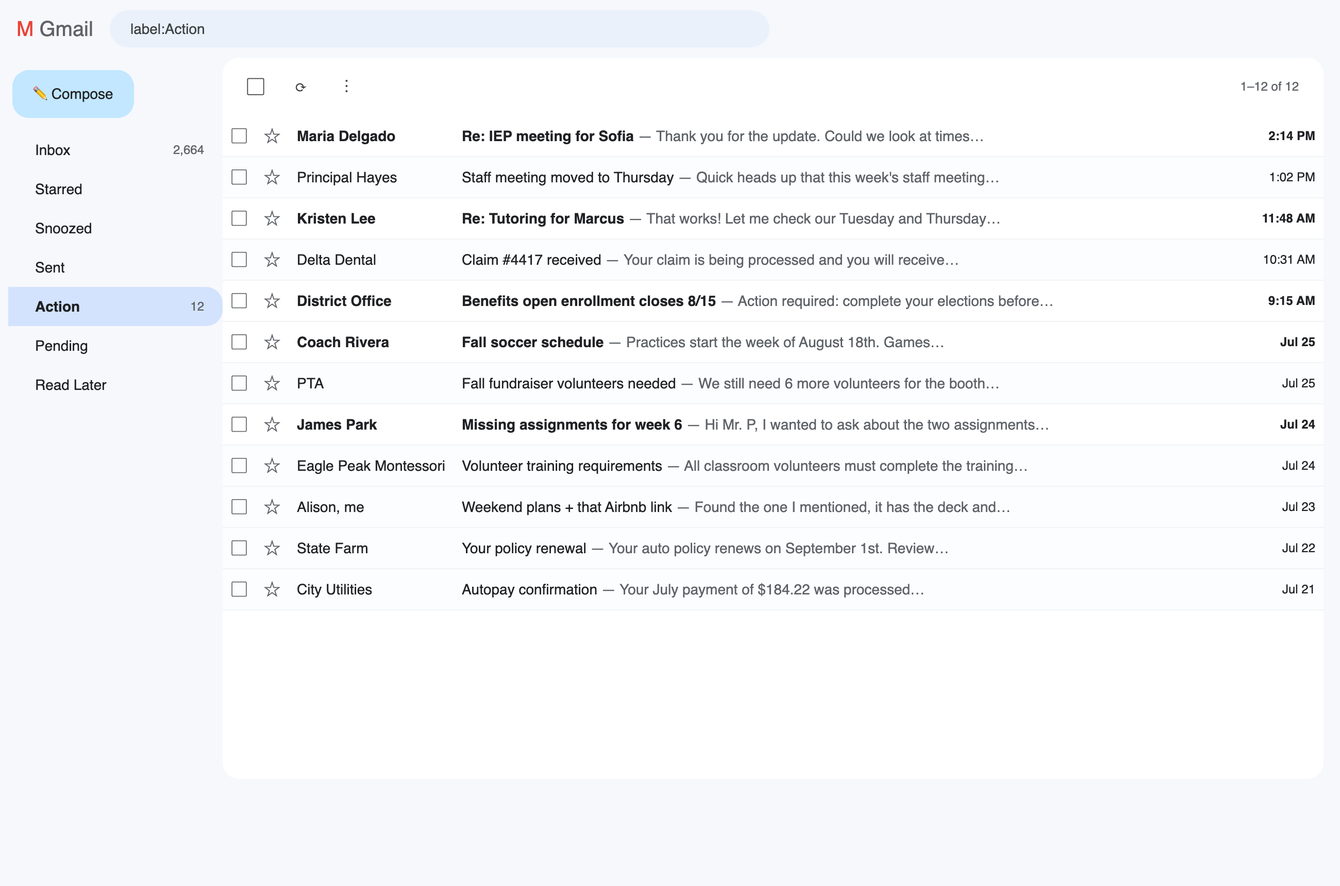
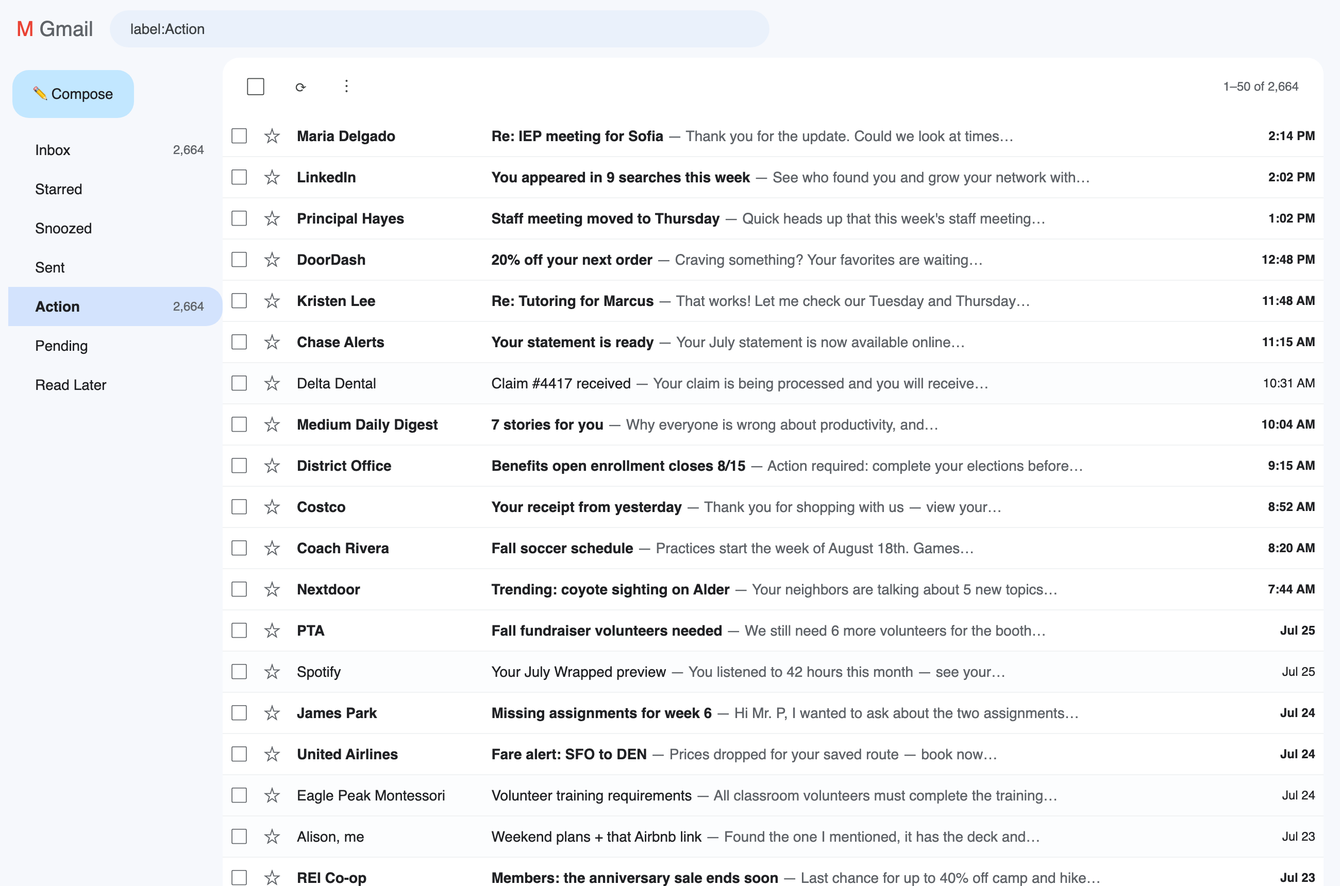
site: one showcase instead of three sections; before-shot now overwhelming
- Before/after flip, the context-note highlight, and the persona gallery
  merged into a single 'What Shelf looks like' stage: 7 tabbed views
  (Before | After | Busy parents | GTD | Eisenhower | Sales | the
  next-steps note), grouped by thin dividers, stage click steps through
  the tour. Two full sections of scrolling removed; TOC down to 7
- before.png repacked to feel like drowning: 22 rows, mostly unread,
  the IEP email buried between LinkedIn and DoorDash, 1-50 of 2,664

diff --git a/docs/index.html b/docs/index.html
@@ -79,7 +79,7 @@
                   padding: 9px 18px; border-radius: 20px; transition: all .18s ease; }
   .pills button.on { background: var(--accent); border-color: var(--accent); color: #fff; }
   @media (prefers-color-scheme: dark) { .pills button.on { color: #202124; } }
-  #setupStage { cursor: default; }
+  .pdiv { width: 1px; align-self: stretch; background: var(--line); margin: 4px 4px; }
   .ba-head { display: flex; align-items: center; justify-content: space-between;
              gap: 16px; flex-wrap: wrap; margin-bottom: 20px; }
   .ba-toggle { display: inline-flex; background: var(--card); border: 1px solid var(--line);
@@ -171,9 +171,7 @@
 <body>
 
 <nav id="toc" aria-label="Sections">
-  <a href="#demo"><span class="lbl">Before / after</span><span class="dot"></span></a>
-  <a href="#context"><span class="lbl">Notes with context</span><span class="dot"></span></a>
-  <a href="#setups"><span class="lbl">Real setups</span><span class="dot"></span></a>
+  <a href="#demo"><span class="lbl">See it</span><span class="dot"></span></a>
   <a href="#video"><span class="lbl">60-second demo</span><span class="dot"></span></a>
   <a href="#features"><span class="lbl">What it does</span><span class="dot"></span></a>
   <a href="#different"><span class="lbl">Why Shelf</span><span class="dot"></span></a>
@@ -200,45 +198,29 @@
 </header>
 
 <section class="wrap" id="demo">
-  <div class="ba-head">
-    <h2 style="margin:0">Before and after</h2>
-    <div class="ba-toggle" role="group" aria-label="Before and after comparison">
-      <button id="btnBefore" class="on" aria-pressed="true">Before</button>
-      <button id="btnAfter" aria-pressed="false">After Shelf</button>
-    </div>
-  </div>
-  <div class="ba-stage" id="baStage" title="Click to flip">
-    <img id="imgBefore" class="on" src="before.png" alt="A default Gmail label: twelve unrelated threads in date order">
-    <img id="imgAfter" src="after.png" alt="The same label organized into Shelf sections with notes">
-  </div>
-  <p class="ba-cap" id="baCap"><b>Before:</b> everything in the order it arrived — parents, insurance, deadlines, and noise interleaved. <span class="ba-hint">(Click the image to flip.)</span></p>
-</section>
-
-<section class="wrap" id="context">
-  <h2>Open any thread knowing exactly where you left off</h2>
-  <p class="lede">Notes ride on the conversation itself. Write the steps once — when you come back, they're waiting at the top, checkboxes and all. No more re-reading a whole thread to remember what "reply to this" actually involves.</p>
-  <img class="framed" src="note-context.png" loading="lazy" alt="An open Gmail conversation with a Shelf sticky note under the subject: 'Before replying', with a checklist — check our actual numbers (done), ask Laura about line 4, loop in finance">
-  <p class="ba-cap"><b>The context tax, cancelled:</b> tick steps off right on the note — it saves instantly, and it's there on the thread everywhere the thread appears.</p>
-</section>
-
-<section class="wrap" id="setups">
-  <h2>Shelves for the way you already work</h2>
-  <p class="lede">Same tool, different systems. Each of these is nothing but shelves, notes, and colors — about thirty seconds of setup.</p>
-  <div class="pills" id="setupPills" role="group" aria-label="Example setups">
-    <button data-k="parents" class="on" aria-pressed="true">Busy parents</button>
+  <h2>What Shelf looks like</h2>
+  <p class="lede">One real label, before and after — then flip through setups people actually run, and the note that keeps your context on every thread. Click the image to step through.</p>
+  <div class="pills" id="viewPills" role="group" aria-label="Views">
+    <button data-k="before" class="on" aria-pressed="true">Before</button>
+    <button data-k="after" aria-pressed="false">After Shelf</button>
+    <span class="pdiv" aria-hidden="true"></span>
+    <button data-k="parents" aria-pressed="false">Busy parents</button>
     <button data-k="gtd" aria-pressed="false">GTD</button>
-    <button data-k="matrix" aria-pressed="false">Eisenhower matrix</button>
-    <button data-k="edu" aria-pressed="false">Educators &amp; parents</button>
-    <button data-k="sales" aria-pressed="false">Sales pipeline</button>
+    <button data-k="matrix" aria-pressed="false">Eisenhower</button>
+    <button data-k="sales" aria-pressed="false">Sales</button>
+    <span class="pdiv" aria-hidden="true"></span>
+    <button data-k="note" aria-pressed="false">Your next steps, on the thread</button>
   </div>
-  <div class="ba-stage" id="setupStage">
-    <img class="on" data-k="parents" src="setup-parents.png" alt="A busy parent's Family label: Needs a reply, This week, and Sign-ups &amp; forms shelves with notes about forms and carpools">
-    <img data-k="gtd" src="setup-gtd.png" loading="lazy" alt="A GTD setup: Next actions, Waiting for, and Someday/maybe shelves in an Action label">
+  <div class="ba-stage" id="viewStage" title="Click to step through">
+    <img class="on" data-k="before" src="before.png" alt="A default Gmail label: twelve unrelated threads in date order">
+    <img data-k="after" src="after.png" alt="The same label fully organized: Waiting on others, This week with Parents &amp; students and School admin sub-shelves, Family, To read">
+    <img data-k="parents" src="setup-parents.png" loading="lazy" alt="A busy parent's Family label: Needs a reply, This week, and Sign-ups &amp; forms shelves">
+    <img data-k="gtd" src="setup-gtd.png" loading="lazy" alt="A GTD setup: Next actions, Waiting for, and Someday/maybe shelves">
     <img data-k="matrix" src="setup-matrix.png" loading="lazy" alt="An Eisenhower matrix: Urgent &amp; important, Schedule, Delegate, and Someday shelves in the inbox">
-    <img data-k="edu" src="after.png" loading="lazy" alt="An educator's label: Waiting on others, This week with a Parents &amp; students sub-shelf, To read">
-    <img data-k="sales" src="setup-sales.png" loading="lazy" alt="A sales pipeline: Closing this week, In conversation, and New leads shelves in a Clients label">
+    <img data-k="sales" src="setup-sales.png" loading="lazy" alt="A sales pipeline: Closing this week, In conversation, and New leads shelves">
+    <img data-k="note" src="note-context.png" loading="lazy" alt="An open conversation with a Shelf checklist note under the subject: Before replying — check our actual numbers, ask Laura about line 4, loop in finance">
   </div>
-  <p class="ba-cap" id="setupCap"><b>Busy parents:</b> teachers, coaches, camps, and forms — "Needs a reply" on top, so nothing slips past Friday.</p>
+  <p class="ba-cap" id="viewCap"><b>Before:</b> everything in the order it arrived — parents, insurance, deadlines, and noise interleaved.</p>
 </section>
 
 <section class="wrap" id="video">
@@ -373,56 +355,41 @@
 
 <script>
 (function () {
-  // before/after flip
-  var imgs = { before: document.getElementById('imgBefore'), after: document.getElementById('imgAfter') };
-  var btns = { before: document.getElementById('btnBefore'), after: document.getElementById('btnAfter') };
-  var cap = document.getElementById('baCap');
-  var caps = {
-    before: '<b>Before:</b> everything in the order it arrived — parents, insurance, deadlines, and noise interleaved. <span class="ba-hint">(Click the image to flip.)</span>',
-    after: '<b>After:</b> what you’re waiting on, what’s due this week (with a sub-shelf for parents &amp; students), what’s just reading — and a note on each thread saying what happens next.'
-  };
-  var cur = 'before';
-  function show(which) {
-    cur = which;
-    for (var k in imgs) {
-      imgs[k].classList.toggle('on', k === which);
-      btns[k].classList.toggle('on', k === which);
-      btns[k].setAttribute('aria-pressed', k === which ? 'true' : 'false');
-    }
-    cap.innerHTML = caps[which];
-  }
-  btns.before.addEventListener('click', function () { show('before'); });
-  btns.after.addEventListener('click', function () { show('after'); });
-  document.getElementById('baStage').addEventListener('click', function () {
-    show(cur === 'before' ? 'after' : 'before');
-  });
-
-  // setup gallery pills
-  var setupCaps = {
+  // unified showcase
+  var viewOrder = ['before', 'after', 'parents', 'gtd', 'matrix', 'sales', 'note'];
+  var viewCaps = {
+    before: '<b>Before:</b> everything in the order it arrived — parents, insurance, deadlines, and noise interleaved.',
+    after: '<b>After:</b> the same twelve threads, fully shelved — waiting-ons with red notes, this week with two sub-shelves, family, reading. Nothing left over.',
     parents: '<b>Busy parents:</b> teachers, coaches, camps, and forms — “Needs a reply” on top, so nothing slips past Friday.',
     gtd: '<b>GTD:</b> Next actions, Waiting for, Someday/maybe — with @context notes riding on the threads themselves.',
     matrix: '<b>Eisenhower:</b> four quadrants in the inbox itself — urgency reads from shelf color before you’ve read a single subject line.',
-    edu: '<b>Educators &amp; parents:</b> IEP threads, tutoring, deadlines — with a sub-shelf keeping parent &amp; student conversations together.',
-    sales: '<b>Sales:</b> a pipeline inside the Clients label — closing deals on top, every thread carrying its next step as a note.'
+    sales: '<b>Sales:</b> a pipeline inside the Clients label — closing deals on top, every thread carrying its next step as a note.',
+    note: '<b>Your next steps, on the thread:</b> write them once; when you open the conversation they’re waiting at the top, checkboxes and all. No more re-reading to remember what “reply to this” involves.'
   };
-  var setupPills = document.querySelectorAll('#setupPills button');
-  var setupImgs = document.querySelectorAll('#setupStage img');
-  var setupCap = document.getElementById('setupCap');
-  Array.prototype.forEach.call(setupPills, function (b) {
-    b.addEventListener('click', function () {
-      var k = b.getAttribute('data-k');
-      Array.prototype.forEach.call(setupPills, function (x) {
-        x.classList.toggle('on', x === b);
-        x.setAttribute('aria-pressed', x === b ? 'true' : 'false');
-      });
-      Array.prototype.forEach.call(setupImgs, function (im) {
-        im.classList.toggle('on', im.getAttribute('data-k') === k);
-      });
-      setupCap.innerHTML = setupCaps[k];
+  var viewPills = document.querySelectorAll('#viewPills button');
+  var viewImgs = document.querySelectorAll('#viewStage img');
+  var viewCap = document.getElementById('viewCap');
+  var curView = 'before';
+  function showView(k) {
+    curView = k;
+    Array.prototype.forEach.call(viewPills, function (b) {
+      var on = b.getAttribute('data-k') === k;
+      b.classList.toggle('on', on);
+      b.setAttribute('aria-pressed', on ? 'true' : 'false');
     });
+    Array.prototype.forEach.call(viewImgs, function (im) {
+      im.classList.toggle('on', im.getAttribute('data-k') === k);
+    });
+    viewCap.innerHTML = viewCaps[k];
+  }
+  Array.prototype.forEach.call(viewPills, function (b) {
+    b.addEventListener('click', function () { showView(b.getAttribute('data-k')); });
+  });
+  document.getElementById('viewStage').addEventListener('click', function () {
+    showView(viewOrder[(viewOrder.indexOf(curView) + 1) % viewOrder.length]);
   });
 
-  // floating toc highlight
+    // floating toc highlight
   var links = Array.prototype.slice.call(document.querySelectorAll('#toc a'));
   var map = {};
   links.forEach(function (a) { map[a.getAttribute('href').slice(1)] = a; });

diff --git a/store/site/index.html b/store/site/index.html
@@ -79,7 +79,7 @@
                   padding: 9px 18px; border-radius: 20px; transition: all .18s ease; }
   .pills button.on { background: var(--accent); border-color: var(--accent); color: #fff; }
   @media (prefers-color-scheme: dark) { .pills button.on { color: #202124; } }
-  #setupStage { cursor: default; }
+  .pdiv { width: 1px; align-self: stretch; background: var(--line); margin: 4px 4px; }
   .ba-head { display: flex; align-items: center; justify-content: space-between;
              gap: 16px; flex-wrap: wrap; margin-bottom: 20px; }
   .ba-toggle { display: inline-flex; background: var(--card); border: 1px solid var(--line);
@@ -171,9 +171,7 @@
 <body>
 
 <nav id="toc" aria-label="Sections">
-  <a href="#demo"><span class="lbl">Before / after</span><span class="dot"></span></a>
-  <a href="#context"><span class="lbl">Notes with context</span><span class="dot"></span></a>
-  <a href="#setups"><span class="lbl">Real setups</span><span class="dot"></span></a>
+  <a href="#demo"><span class="lbl">See it</span><span class="dot"></span></a>
   <a href="#video"><span class="lbl">60-second demo</span><span class="dot"></span></a>
   <a href="#features"><span class="lbl">What it does</span><span class="dot"></span></a>
   <a href="#different"><span class="lbl">Why Shelf</span><span class="dot"></span></a>
@@ -200,45 +198,29 @@
 </header>
 
 <section class="wrap" id="demo">
-  <div class="ba-head">
-    <h2 style="margin:0">Before and after</h2>
-    <div class="ba-toggle" role="group" aria-label="Before and after comparison">
-      <button id="btnBefore" class="on" aria-pressed="true">Before</button>
-      <button id="btnAfter" aria-pressed="false">After Shelf</button>
-    </div>
-  </div>
-  <div class="ba-stage" id="baStage" title="Click to flip">
-    <img id="imgBefore" class="on" src="before.png" alt="A default Gmail label: twelve unrelated threads in date order">
-    <img id="imgAfter" src="after.png" alt="The same label organized into Shelf sections with notes">
-  </div>
-  <p class="ba-cap" id="baCap"><b>Before:</b> everything in the order it arrived — parents, insurance, deadlines, and noise interleaved. <span class="ba-hint">(Click the image to flip.)</span></p>
-</section>
-
-<section class="wrap" id="context">
-  <h2>Open any thread knowing exactly where you left off</h2>
-  <p class="lede">Notes ride on the conversation itself. Write the steps once — when you come back, they're waiting at the top, checkboxes and all. No more re-reading a whole thread to remember what "reply to this" actually involves.</p>
-  <img class="framed" src="note-context.png" loading="lazy" alt="An open Gmail conversation with a Shelf sticky note under the subject: 'Before replying', with a checklist — check our actual numbers (done), ask Laura about line 4, loop in finance">
-  <p class="ba-cap"><b>The context tax, cancelled:</b> tick steps off right on the note — it saves instantly, and it's there on the thread everywhere the thread appears.</p>
-</section>
-
-<section class="wrap" id="setups">
-  <h2>Shelves for the way you already work</h2>
-  <p class="lede">Same tool, different systems. Each of these is nothing but shelves, notes, and colors — about thirty seconds of setup.</p>
-  <div class="pills" id="setupPills" role="group" aria-label="Example setups">
-    <button data-k="parents" class="on" aria-pressed="true">Busy parents</button>
+  <h2>What Shelf looks like</h2>
+  <p class="lede">One real label, before and after — then flip through setups people actually run, and the note that keeps your context on every thread. Click the image to step through.</p>
+  <div class="pills" id="viewPills" role="group" aria-label="Views">
+    <button data-k="before" class="on" aria-pressed="true">Before</button>
+    <button data-k="after" aria-pressed="false">After Shelf</button>
+    <span class="pdiv" aria-hidden="true"></span>
+    <button data-k="parents" aria-pressed="false">Busy parents</button>
     <button data-k="gtd" aria-pressed="false">GTD</button>
-    <button data-k="matrix" aria-pressed="false">Eisenhower matrix</button>
-    <button data-k="edu" aria-pressed="false">Educators &amp; parents</button>
-    <button data-k="sales" aria-pressed="false">Sales pipeline</button>
+    <button data-k="matrix" aria-pressed="false">Eisenhower</button>
+    <button data-k="sales" aria-pressed="false">Sales</button>
+    <span class="pdiv" aria-hidden="true"></span>
+    <button data-k="note" aria-pressed="false">Your next steps, on the thread</button>
   </div>
-  <div class="ba-stage" id="setupStage">
-    <img class="on" data-k="parents" src="setup-parents.png" alt="A busy parent's Family label: Needs a reply, This week, and Sign-ups &amp; forms shelves with notes about forms and carpools">
-    <img data-k="gtd" src="setup-gtd.png" loading="lazy" alt="A GTD setup: Next actions, Waiting for, and Someday/maybe shelves in an Action label">
+  <div class="ba-stage" id="viewStage" title="Click to step through">
+    <img class="on" data-k="before" src="before.png" alt="A default Gmail label: twelve unrelated threads in date order">
+    <img data-k="after" src="after.png" alt="The same label fully organized: Waiting on others, This week with Parents &amp; students and School admin sub-shelves, Family, To read">
+    <img data-k="parents" src="setup-parents.png" loading="lazy" alt="A busy parent's Family label: Needs a reply, This week, and Sign-ups &amp; forms shelves">
+    <img data-k="gtd" src="setup-gtd.png" loading="lazy" alt="A GTD setup: Next actions, Waiting for, and Someday/maybe shelves">
     <img data-k="matrix" src="setup-matrix.png" loading="lazy" alt="An Eisenhower matrix: Urgent &amp; important, Schedule, Delegate, and Someday shelves in the inbox">
-    <img data-k="edu" src="after.png" loading="lazy" alt="An educator's label: Waiting on others, This week with a Parents &amp; students sub-shelf, To read">
-    <img data-k="sales" src="setup-sales.png" loading="lazy" alt="A sales pipeline: Closing this week, In conversation, and New leads shelves in a Clients label">
+    <img data-k="sales" src="setup-sales.png" loading="lazy" alt="A sales pipeline: Closing this week, In conversation, and New leads shelves">
+    <img data-k="note" src="note-context.png" loading="lazy" alt="An open conversation with a Shelf checklist note under the subject: Before replying — check our actual numbers, ask Laura about line 4, loop in finance">
   </div>
-  <p class="ba-cap" id="setupCap"><b>Busy parents:</b> teachers, coaches, camps, and forms — "Needs a reply" on top, so nothing slips past Friday.</p>
+  <p class="ba-cap" id="viewCap"><b>Before:</b> everything in the order it arrived — parents, insurance, deadlines, and noise interleaved.</p>
 </section>
 
 <section class="wrap" id="video">
@@ -373,56 +355,41 @@
 
 <script>
 (function () {
-  // before/after flip
-  var imgs = { before: document.getElementById('imgBefore'), after: document.getElementById('imgAfter') };
-  var btns = { before: document.getElementById('btnBefore'), after: document.getElementById('btnAfter') };
-  var cap = document.getElementById('baCap');
-  var caps = {
-    before: '<b>Before:</b> everything in the order it arrived — parents, insurance, deadlines, and noise interleaved. <span class="ba-hint">(Click the image to flip.)</span>',
-    after: '<b>After:</b> what you’re waiting on, what’s due this week (with a sub-shelf for parents &amp; students), what’s just reading — and a note on each thread saying what happens next.'
-  };
-  var cur = 'before';
-  function show(which) {
-    cur = which;
-    for (var k in imgs) {
-      imgs[k].classList.toggle('on', k === which);
-      btns[k].classList.toggle('on', k === which);
-      btns[k].setAttribute('aria-pressed', k === which ? 'true' : 'false');
-    }
-    cap.innerHTML = caps[which];
-  }
-  btns.before.addEventListener('click', function () { show('before'); });
-  btns.after.addEventListener('click', function () { show('after'); });
-  document.getElementById('baStage').addEventListener('click', function () {
-    show(cur === 'before' ? 'after' : 'before');
-  });
-
-  // setup gallery pills
-  var setupCaps = {
+  // unified showcase
+  var viewOrder = ['before', 'after', 'parents', 'gtd', 'matrix', 'sales', 'note'];
+  var viewCaps = {
+    before: '<b>Before:</b> everything in the order it arrived — parents, insurance, deadlines, and noise interleaved.',
+    after: '<b>After:</b> the same twelve threads, fully shelved — waiting-ons with red notes, this week with two sub-shelves, family, reading. Nothing left over.',
     parents: '<b>Busy parents:</b> teachers, coaches, camps, and forms — “Needs a reply” on top, so nothing slips past Friday.',
     gtd: '<b>GTD:</b> Next actions, Waiting for, Someday/maybe — with @context notes riding on the threads themselves.',
     matrix: '<b>Eisenhower:</b> four quadrants in the inbox itself — urgency reads from shelf color before you’ve read a single subject line.',
-    edu: '<b>Educators &amp; parents:</b> IEP threads, tutoring, deadlines — with a sub-shelf keeping parent &amp; student conversations together.',
-    sales: '<b>Sales:</b> a pipeline inside the Clients label — closing deals on top, every thread carrying its next step as a note.'
+    sales: '<b>Sales:</b> a pipeline inside the Clients label — closing deals on top, every thread carrying its next step as a note.',
+    note: '<b>Your next steps, on the thread:</b> write them once; when you open the conversation they’re waiting at the top, checkboxes and all. No more re-reading to remember what “reply to this” involves.'
   };
-  var setupPills = document.querySelectorAll('#setupPills button');
-  var setupImgs = document.querySelectorAll('#setupStage img');
-  var setupCap = document.getElementById('setupCap');
-  Array.prototype.forEach.call(setupPills, function (b) {
-    b.addEventListener('click', function () {
-      var k = b.getAttribute('data-k');
-      Array.prototype.forEach.call(setupPills, function (x) {
-        x.classList.toggle('on', x === b);
-        x.setAttribute('aria-pressed', x === b ? 'true' : 'false');
-      });
-      Array.prototype.forEach.call(setupImgs, function (im) {
-        im.classList.toggle('on', im.getAttribute('data-k') === k);
-      });
-      setupCap.innerHTML = setupCaps[k];
+  var viewPills = document.querySelectorAll('#viewPills button');
+  var viewImgs = document.querySelectorAll('#viewStage img');
+  var viewCap = document.getElementById('viewCap');
+  var curView = 'before';
+  function showView(k) {
+    curView = k;
+    Array.prototype.forEach.call(viewPills, function (b) {
+      var on = b.getAttribute('data-k') === k;
+      b.classList.toggle('on', on);
+      b.setAttribute('aria-pressed', on ? 'true' : 'false');
     });
+    Array.prototype.forEach.call(viewImgs, function (im) {
+      im.classList.toggle('on', im.getAttribute('data-k') === k);
+    });
+    viewCap.innerHTML = viewCaps[k];
+  }
+  Array.prototype.forEach.call(viewPills, function (b) {
+    b.addEventListener('click', function () { showView(b.getAttribute('data-k')); });
+  });
+  document.getElementById('viewStage').addEventListener('click', function () {
+    showView(viewOrder[(viewOrder.indexOf(curView) + 1) % viewOrder.length]);
   });
 
-  // floating toc highlight
+    // floating toc highlight
   var links = Array.prototype.slice.call(document.querySelectorAll('#toc a'));
   var map = {};
   links.forEach(function (a) { map[a.getAttribute('href').slice(1)] = a; });

diff --git a/tools/shot-before.html b/tools/shot-before.html
@@ -49,7 +49,7 @@
     <div class="nav">Starred</div>
     <div class="nav">Snoozed</div>
     <div class="nav">Sent</div>
-    <div class="nav on">Action <span class="n">12</span></div>
+    <div class="nav on">Action <span class="n">2,664</span></div>
     <div class="nav">Pending</div>
     <div class="nav">Read Later</div>
   </div>
@@ -58,20 +58,30 @@
       <span class="tbtn">▢</span>
       <span class="tbtn">⟳</span>
       <span class="tbtn">⋮</span>
-      <span class="count">1–12 of 12</span>
+      <span class="count">1–50 of 2,664</span>
     </div>
     <table class="F"><tbody>
       <tr class="zA"><td class="cb">▢</td><td class="st">☆</td><td class="who">Maria Delgado</td><td class="subj"><span class="bog">Re: IEP meeting for Sofia</span> <span class="snip">— Thank you for the update. Could we look at times…</span></td><td class="when">2:14 PM</td></tr>
-      <tr class="zA read"><td class="cb">▢</td><td class="st">☆</td><td class="who">Principal Hayes</td><td class="subj"><span class="bog">Staff meeting moved to Thursday</span> <span class="snip">— Quick heads up that this week's staff meeting…</span></td><td class="when">1:02 PM</td></tr>
+      <tr class="zA"><td class="cb">▢</td><td class="st">☆</td><td class="who">LinkedIn</td><td class="subj"><span class="bog">You appeared in 9 searches this week</span> <span class="snip">— See who found you and grow your network with…</span></td><td class="when">2:02 PM</td></tr>
+      <tr class="zA"><td class="cb">▢</td><td class="st">☆</td><td class="who">Principal Hayes</td><td class="subj"><span class="bog">Staff meeting moved to Thursday</span> <span class="snip">— Quick heads up that this week's staff meeting…</span></td><td class="when">1:02 PM</td></tr>
+      <tr class="zA"><td class="cb">▢</td><td class="st">☆</td><td class="who">DoorDash</td><td class="subj"><span class="bog">20% off your next order</span> <span class="snip">— Craving something? Your favorites are waiting…</span></td><td class="when">12:48 PM</td></tr>
       <tr class="zA"><td class="cb">▢</td><td class="st">☆</td><td class="who">Kristen Lee</td><td class="subj"><span class="bog">Re: Tutoring for Marcus</span> <span class="snip">— That works! Let me check our Tuesday and Thursday…</span></td><td class="when">11:48 AM</td></tr>
+      <tr class="zA"><td class="cb">▢</td><td class="st">☆</td><td class="who">Chase Alerts</td><td class="subj"><span class="bog">Your statement is ready</span> <span class="snip">— Your July statement is now available online…</span></td><td class="when">11:15 AM</td></tr>
       <tr class="zA read"><td class="cb">▢</td><td class="st">☆</td><td class="who">Delta Dental</td><td class="subj"><span class="bog">Claim #4417 received</span> <span class="snip">— Your claim is being processed and you will receive…</span></td><td class="when">10:31 AM</td></tr>
+      <tr class="zA"><td class="cb">▢</td><td class="st">☆</td><td class="who">Medium Daily Digest</td><td class="subj"><span class="bog">7 stories for you</span> <span class="snip">— Why everyone is wrong about productivity, and…</span></td><td class="when">10:04 AM</td></tr>
       <tr class="zA"><td class="cb">▢</td><td class="st">☆</td><td class="who">District Office</td><td class="subj"><span class="bog">Benefits open enrollment closes 8/15</span> <span class="snip">— Action required: complete your elections before…</span></td><td class="when">9:15 AM</td></tr>
-      <tr class="zA"><td class="cb">▢</td><td class="st">☆</td><td class="who">Coach Rivera</td><td class="subj"><span class="bog">Fall soccer schedule</span> <span class="snip">— Practices start the week of August 18th. Games…</span></td><td class="when">Jul 25</td></tr>
-      <tr class="zA read"><td class="cb">▢</td><td class="st">☆</td><td class="who">PTA</td><td class="subj"><span class="bog">Fall fundraiser volunteers needed</span> <span class="snip">— We still need 6 more volunteers for the booth…</span></td><td class="when">Jul 25</td></tr>
+      <tr class="zA"><td class="cb">▢</td><td class="st">☆</td><td class="who">Costco</td><td class="subj"><span class="bog">Your receipt from yesterday</span> <span class="snip">— Thank you for shopping with us — view your…</span></td><td class="when">8:52 AM</td></tr>
+      <tr class="zA"><td class="cb">▢</td><td class="st">☆</td><td class="who">Coach Rivera</td><td class="subj"><span class="bog">Fall soccer schedule</span> <span class="snip">— Practices start the week of August 18th. Games…</span></td><td class="when">8:20 AM</td></tr>
+      <tr class="zA"><td class="cb">▢</td><td class="st">☆</td><td class="who">Nextdoor</td><td class="subj"><span class="bog">Trending: coyote sighting on Alder</span> <span class="snip">— Your neighbors are talking about 5 new topics…</span></td><td class="when">7:44 AM</td></tr>
+      <tr class="zA"><td class="cb">▢</td><td class="st">☆</td><td class="who">PTA</td><td class="subj"><span class="bog">Fall fundraiser volunteers needed</span> <span class="snip">— We still need 6 more volunteers for the booth…</span></td><td class="when">Jul 25</td></tr>
+      <tr class="zA read"><td class="cb">▢</td><td class="st">☆</td><td class="who">Spotify</td><td class="subj"><span class="bog">Your July Wrapped preview</span> <span class="snip">— You listened to 42 hours this month — see your…</span></td><td class="when">Jul 25</td></tr>
       <tr class="zA"><td class="cb">▢</td><td class="st">☆</td><td class="who">James Park</td><td class="subj"><span class="bog">Missing assignments for week 6</span> <span class="snip">— Hi Mr. P, I wanted to ask about the two assignments…</span></td><td class="when">Jul 24</td></tr>
+      <tr class="zA"><td class="cb">▢</td><td class="st">☆</td><td class="who">United Airlines</td><td class="subj"><span class="bog">Fare alert: SFO to DEN</span> <span class="snip">— Prices dropped for your saved route — book now…</span></td><td class="when">Jul 24</td></tr>
       <tr class="zA read"><td class="cb">▢</td><td class="st">☆</td><td class="who">Eagle Peak Montessori</td><td class="subj"><span class="bog">Volunteer training requirements</span> <span class="snip">— All classroom volunteers must complete the training…</span></td><td class="when">Jul 24</td></tr>
       <tr class="zA read"><td class="cb">▢</td><td class="st">☆</td><td class="who">Alison, me</td><td class="subj"><span class="bog">Weekend plans + that Airbnb link</span> <span class="snip">— Found the one I mentioned, it has the deck and…</span></td><td class="when">Jul 23</td></tr>
+      <tr class="zA"><td class="cb">▢</td><td class="st">☆</td><td class="who">REI Co-op</td><td class="subj"><span class="bog">Members: the anniversary sale ends soon</span> <span class="snip">— Last chance for up to 40% off camp and hike…</span></td><td class="when">Jul 23</td></tr>
       <tr class="zA read"><td class="cb">▢</td><td class="st">☆</td><td class="who">State Farm</td><td class="subj"><span class="bog">Your policy renewal</span> <span class="snip">— Your auto policy renews on September 1st. Review…</span></td><td class="when">Jul 22</td></tr>
+      <tr class="zA"><td class="cb">▢</td><td class="st">☆</td><td class="who">Substack: The Prep Sheet</td><td class="subj"><span class="bog">Sunday edition: 14 links</span> <span class="snip">— This week in teaching, plus a tool worth trying…</span></td><td class="when">Jul 22</td></tr>
       <tr class="zA read"><td class="cb">▢</td><td class="st">☆</td><td class="who">City Utilities</td><td class="subj"><span class="bog">Autopay confirmation</span> <span class="snip">— Your July payment of $184.22 was processed…</span></td><td class="when">Jul 21</td></tr>
     </tbody></table>
   </div>
